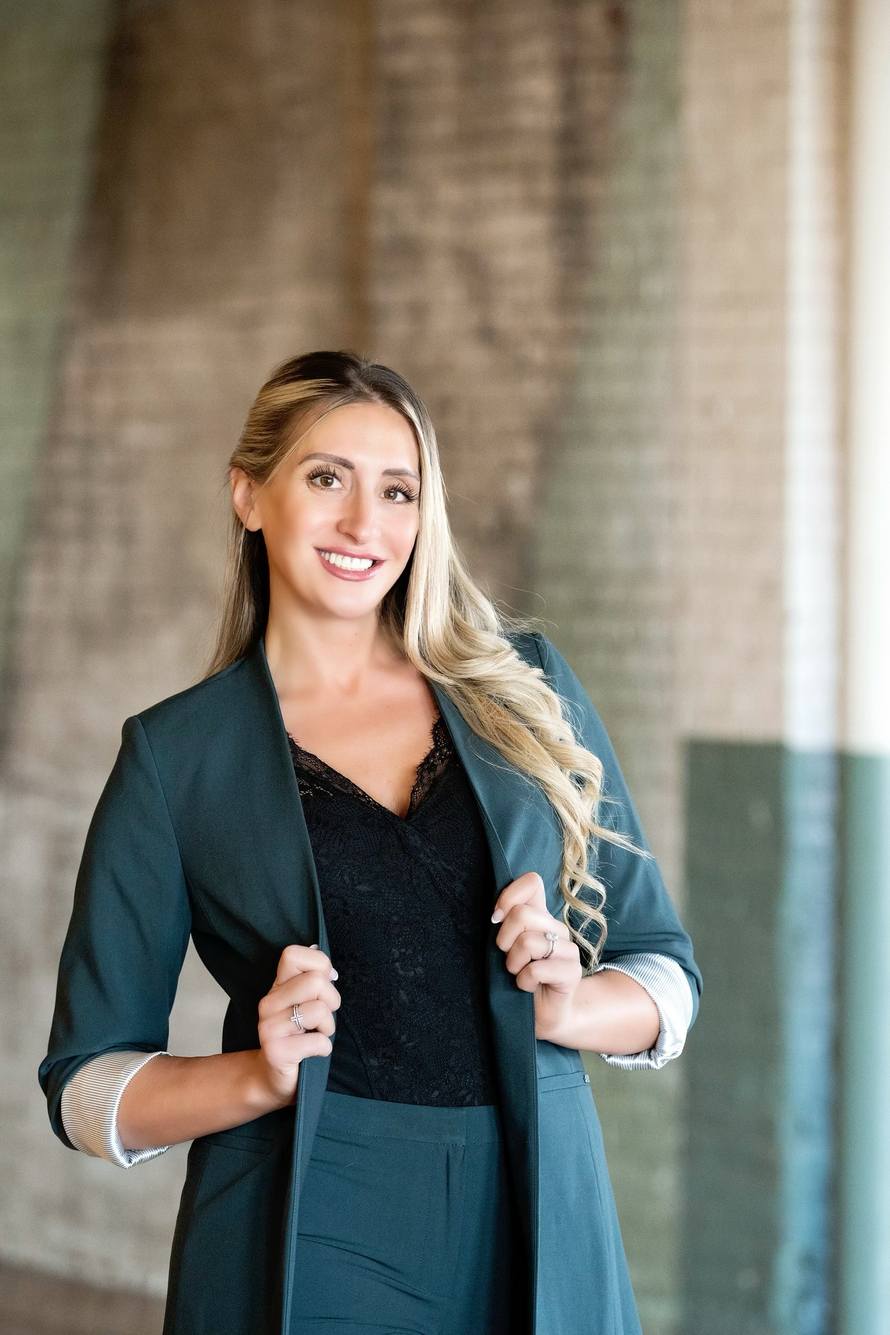
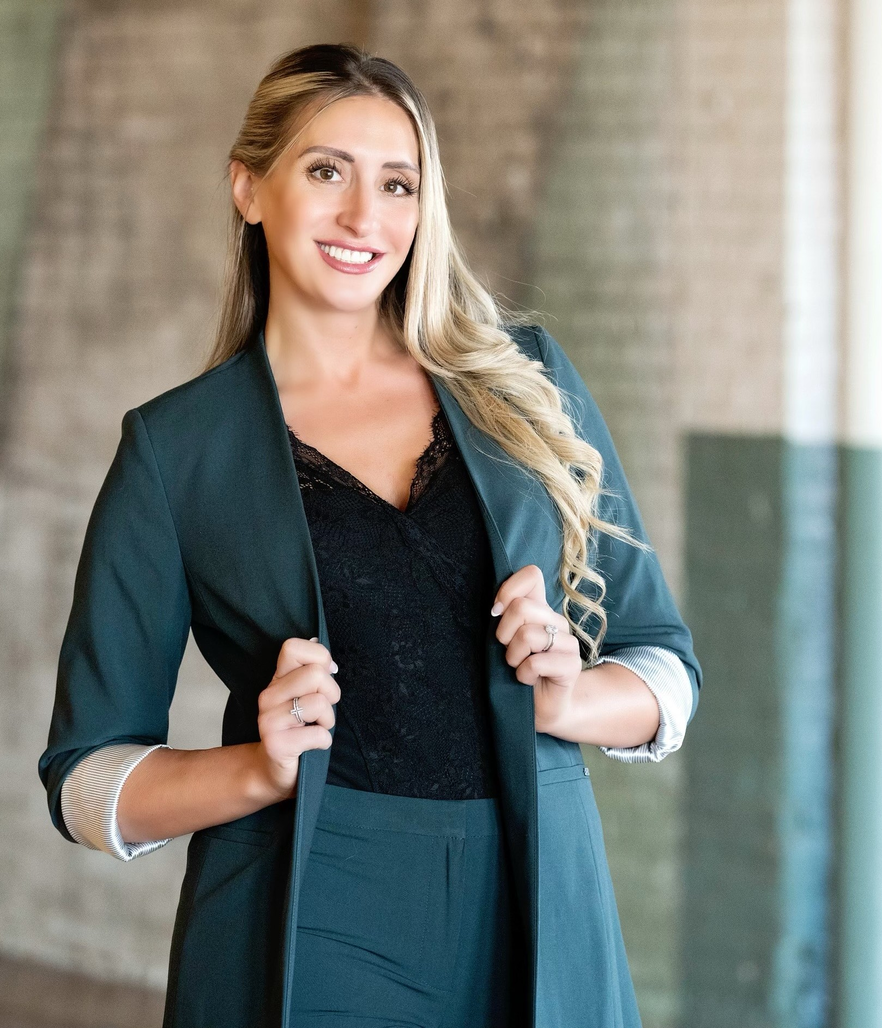
croped about us photo

diff --git a/the/src/pages/AddonServices.css b/the/src/pages/AddonServices.css
@@ -1,55 +1,70 @@
+/* AddonServices.css */
+
 .addon-services-container {
-  padding-top: 50px;
-  text-align: center;
-  color: white;
   background-color: black;
+  color: white;
+  display: flex;
+  flex-direction: column;
+  align-items: center;
+  padding: 20px;
+  min-height: 100vh; /* Ensure the container takes full viewport height */
+  position: relative; /* Necessary for absolute positioning of the button */
 }
 
 .addon-service {
-  margin-bottom: 30px; /* Spacing between service sections */
+  margin-bottom: 2rem; /* Space between service sections */
+  text-align: center;
+  max-width: 800px; /* Limit the width for larger screens */
+  width: 90%; /* Take up most of the width on smaller screens */
 }
 
-.addon-service-header {
-  font-family: "GArmound", sans-serif;
-  font-size: 3rem; /* 48px / 16px = 3rem */
-  font-weight: lighter;
-  margin-top: 3rem;
-  text-shadow: 2px 2px 5px rgba(0, 0, 0, 0.8);
+.last-addon-service {
+  margin-bottom: 5rem;
 }
+
+
+.addon-service-header {
+  font-size: 2.5rem;
+  margin-bottom: 1rem;
+  font-weight: lighter;
+  font-family: Garamond, serif;
+}
+
 .addon-service-image {
-  width: 40%;
-  max-width: 600px;
+  width: 60%;
+  max-width: 400px;
   height: auto;
   border-radius: 10px;
   box-shadow: 0 4px 8px rgba(255, 255, 255, 0.3);
-  margin-bottom: 1.25rem;
+  margin-bottom: 1rem;
+  object-fit: cover;
 }
 
-.addon-service-description,
+.addon-service-description {
+  font-size: 1.5rem;
+  line-height: 1.6;
+  margin-bottom: 1rem;
+  font-family: Garamond, serif;
+}
+
 .addon-service-list {
-  max-width: 800px;
-  margin: 0 auto;
-  line-height: 1.8;
-  font-family: "Garmound", sans-serif;
-  font-size: 1.2rem;
-  text-shadow: 1px 1px 3px rgba(0, 0, 0, 0.8);
-  margin-bottom: 1.25rem;
-  padding-left: 20px;
-  list-style-type: disc;
-  list-style-position: inside;
-  text-align: center;
+  list-style-type: disc; /* Adds bullet points */
+  padding-left: 0; /* Remove default padding */
+  font-size: 1.5rem;
+  text-align: center; /* Center the text content */
+  font-family: Garamond, serif;
+  display: inline-block; /* Allow centering of list */
 }
 
-/* styles for list items inside of a list */
-.addon-service-list li{
-  text-align: center;
+.addon-service-list li {
+  text-align: left; /* Revert text alignment inside list items */
+  margin-left: 20px; /* Add left margin for bullets */
 }
 
-
-.book-now-button{
-  position: fixed;
-  bottom: 50px;
-  right: 20px;
+.book-now-button {
+  position: absolute;
+  bottom: 20px;
+  right: 10px;
   background-color: #ff6347;
   color: white;
   padding: 10px 20px;
@@ -61,28 +76,44 @@
 }
 
 
-/* Media query for smaller screens (mobile) */
+.book-now-button:hover {
+  background-color: #ff0000; /* Change color on hover */
+}
+
+
+/* Mobile Responsive Styles */
 @media (max-width: 768px) {
+  .addon-services-container {
+    padding: 10px;
+  }
+    .last-addon-service {
+        margin-bottom: 3rem;
+    }
   .addon-service-header {
-    font-size: 2rem;
-    margin-top: 1.5rem;
-    margin-bottom: 0.5rem;
-  }
-  .addon-service-image{
-      width: 70%;
-      max-width: 100%;
-      margin-bottom: 1rem;
-  }
-  .addon-service-description,
-  .addon-service-list {
-    font-size: 1rem;
-    margin-bottom: 1rem;
-    padding: 0 10px; /* added padding on the sides to fit small screens */
+      font-size: 2rem; /* Smaller font size for mobile */
   }
 
-  .book-now-button {
-      position: fixed;
-      bottom: 20px; /* Adjust bottom positioning for smaller screens */
-      right: 10px; /* Adjust right positioning for smaller screens */
-    }
+  .addon-service-image {
+      width: 80%; /* Adjust width for smaller screens */
+  }
+
+  .addon-service-description {
+    font-size: 1.5rem; /* Smaller font size for mobile */
+  }
+
+  .addon-service-list {
+    font-size: 1.5rem; /* Smaller font size for mobile */
+  }
+
+   .addon-service-list li {
+    margin-left: 10px; /* Adjust margin for smaller screens */
+   }
+
+   .book-now-button {
+    bottom: 10px;
+    right: 5px;
+    font-size: 14px;
+    padding: 8px 16px;
+   }
+
 }

diff --git a/the/src/pages/AddOnServices.js b/the/src/pages/AddOnServices.js
@@ -73,7 +73,7 @@ const AddonServices = () => {
           </li>
         </ul>
       </section>
-      <section className="addon-service">
+      <section className="addon-service last-addon-service">
         <h3 className="addon-service-header">Vibration Therapy Plate</h3>
         <img
           src={VibrationTherapyImage}
@@ -82,6 +82,7 @@ const AddonServices = () => {
         />
       </section>
 
+      {/* BOOK NOW Button with Inline Styles */}
       <button
         onClick={() =>
           (window.location.href = "https://calendly.com/at-the-gspa")
